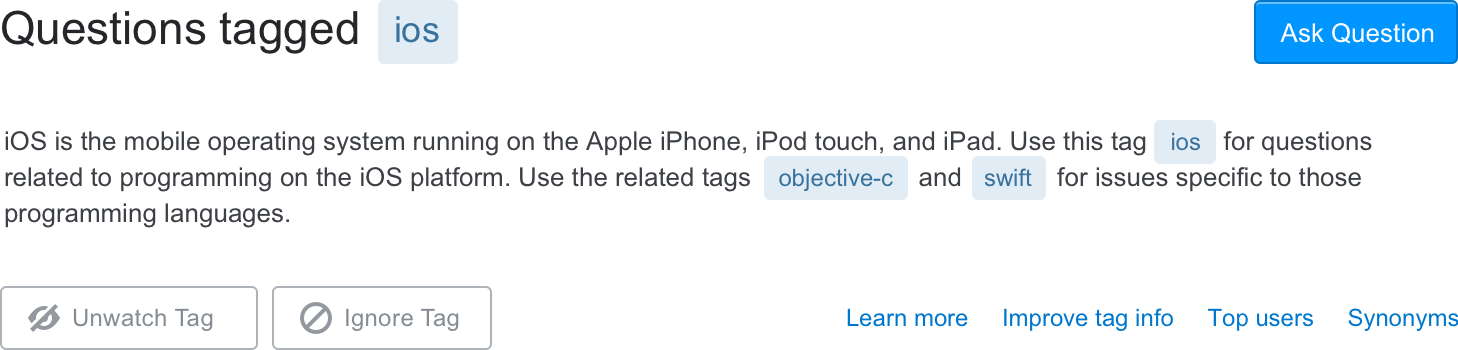
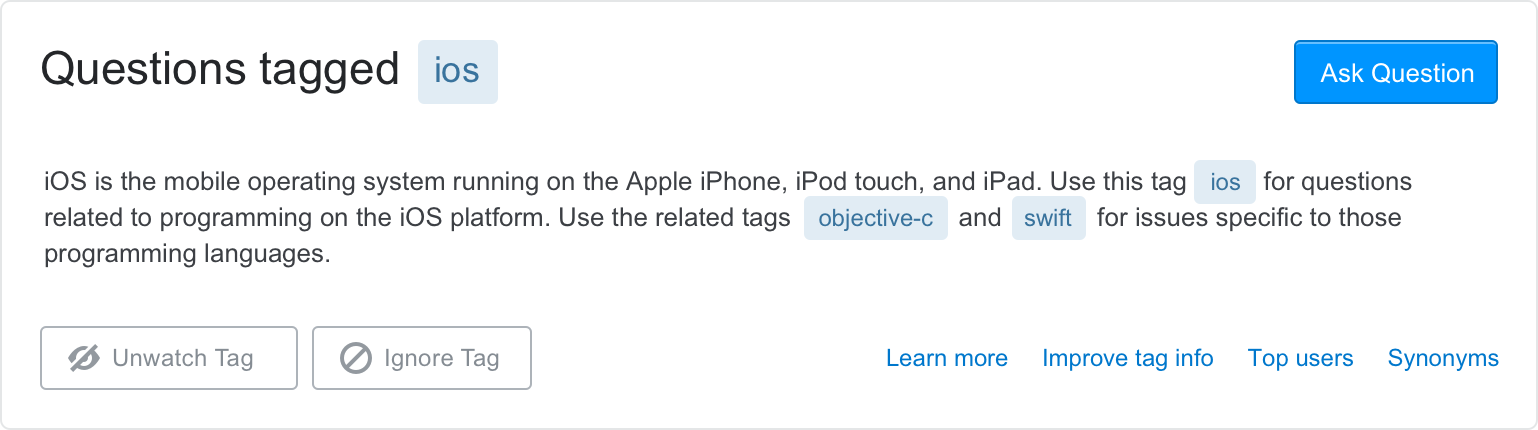
Add a background to the tag header

diff --git a/src/work/stackoverflow/index.html b/src/work/stackoverflow/index.html
@@ -132,7 +132,7 @@
     </div>
 
     <div class="caption">
-      <img src="media/tags-header.png" width="729">
+      <img src="media/tags-header.png" width="769">
       On the tag page itself, we also added some additional buttons for managing watching a tag.
     </div>
 
